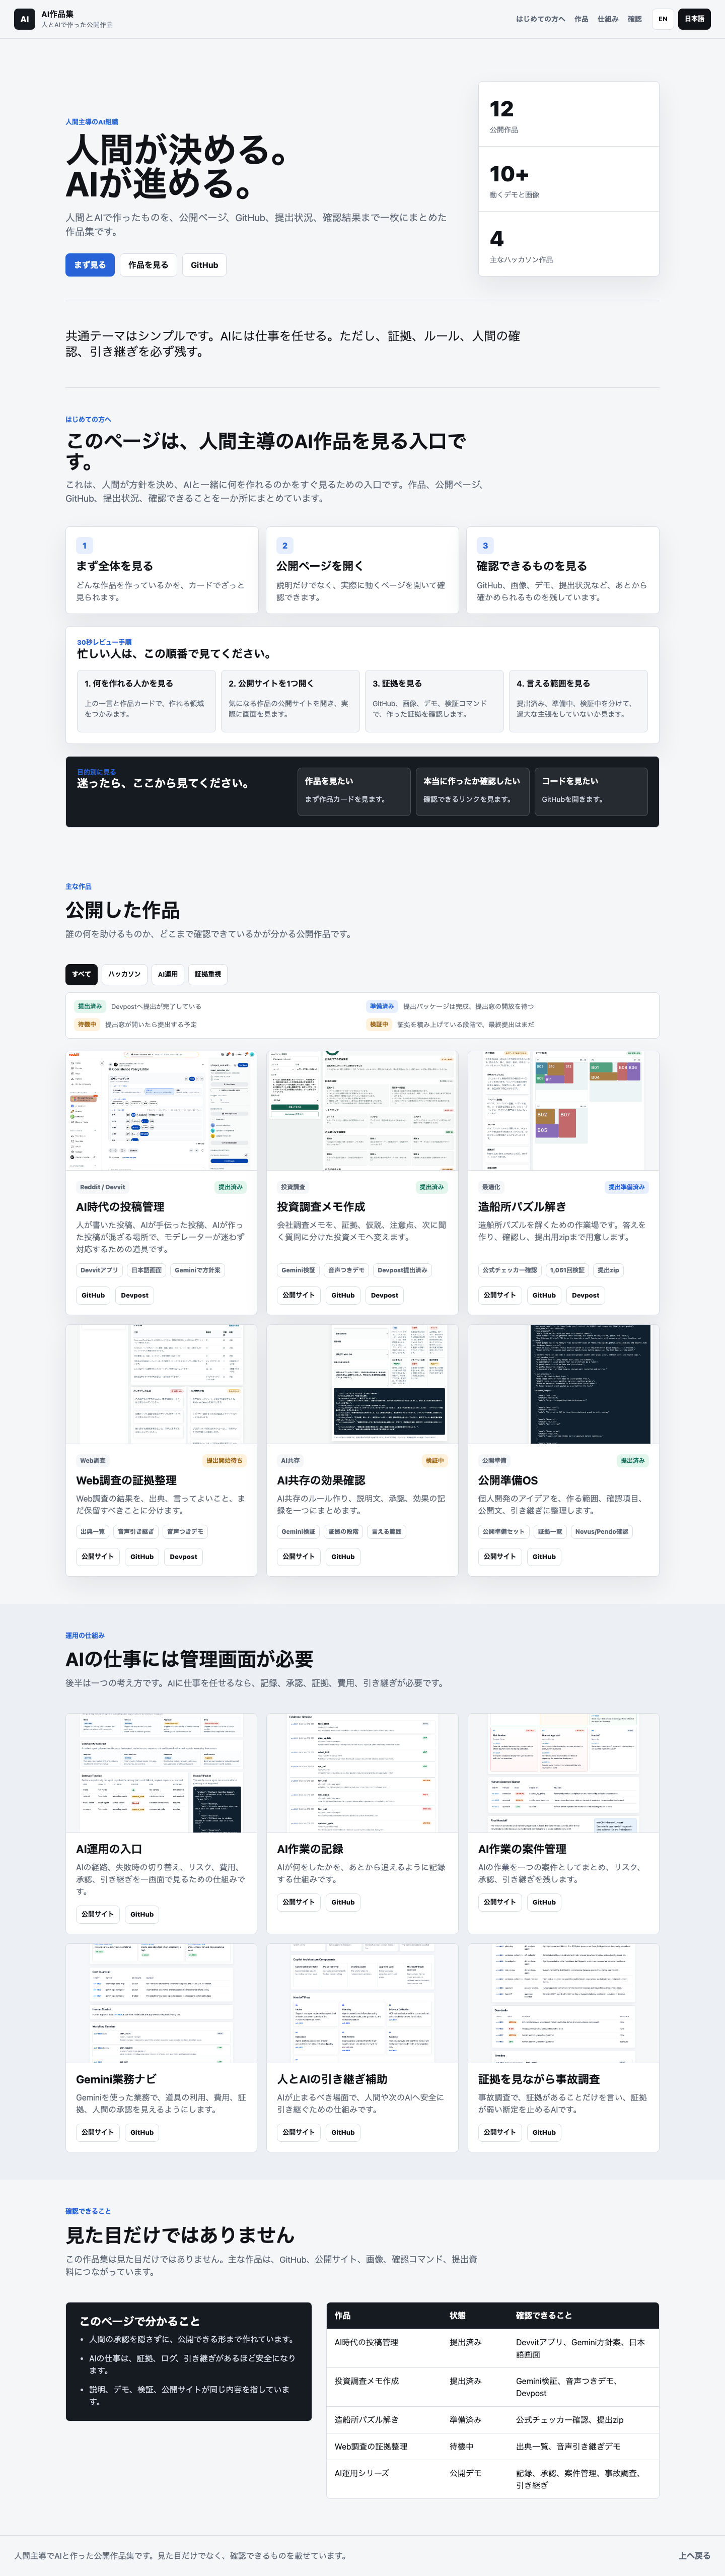
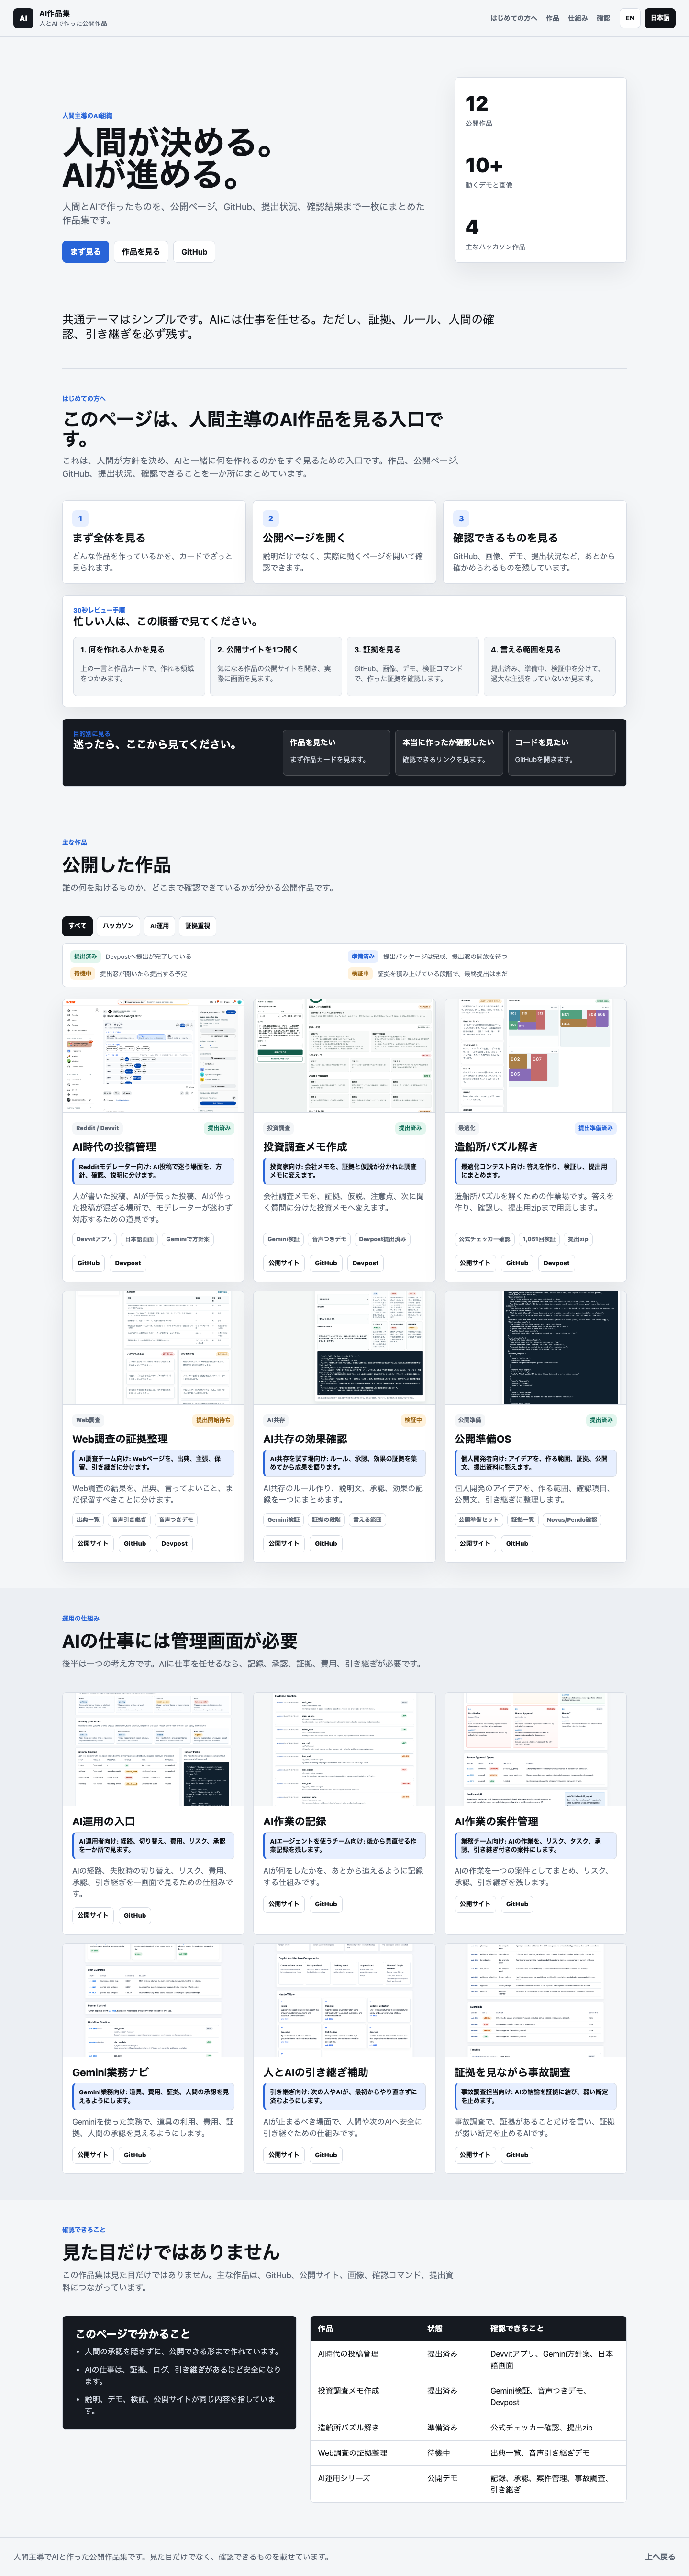
Add audience value lines to portfolio cards

diff --git a/index.html b/index.html
@@ -207,6 +207,10 @@
                 <span class="status submitted" data-i18n="statusSubmitted">提出済み</span>
               </div>
               <h3 data-i18n="coexistenceTitle">AI時代の投稿管理</h3>
+              <p class="value-line">
+                <span class="i18n-en">For Reddit moderators: turn AI-content uncertainty into policy, queue actions, and clear explanations.</span>
+                <span class="i18n-ja">Redditモデレーター向け: AI投稿で迷う場面を、方針、確認、説明に分けます。</span>
+              </p>
               <p>
                 <span class="i18n-en">A moderation governance console for communities where human, AI-assisted, AI-generated, and undisclosed participation coexist.</span>
                 <span class="i18n-ja">人が書いた投稿、AIが手伝った投稿、AIが作った投稿が混ざる場所で、モデレーターが迷わず対応するための道具です。</span>
@@ -231,6 +235,10 @@
                 <span class="status submitted" data-i18n="statusSubmitted">提出済み</span>
               </div>
               <h3 data-i18n="investorTitle">投資調査メモ作成</h3>
+              <p class="value-line">
+                <span class="i18n-en">For investors: turn rough startup notes into a review memo that separates evidence from assumptions.</span>
+                <span class="i18n-ja">投資家向け: 会社メモを、証拠と仮説が分かれた調査メモに変えます。</span>
+              </p>
               <p>
                 <span class="i18n-en">Turns messy startup notes into an evidence-aware diligence brief with red flags, assumptions, and next investor questions.</span>
                 <span class="i18n-ja">会社調査メモを、証拠、仮説、注意点、次に聞く質問に分けた投資メモへ変えます。</span>
@@ -256,6 +264,10 @@
                 <span class="status ready" data-i18n="statusReady">提出準備済み</span>
               </div>
               <h3 data-i18n="shipyardTitle">造船所パズル解き</h3>
+              <p class="value-line">
+                <span class="i18n-en">For optimization competitors: solve, validate, and package answers without losing proof.</span>
+                <span class="i18n-ja">最適化コンテスト向け: 答えを作り、検証し、提出用にまとめます。</span>
+              </p>
               <p>
                 <span class="i18n-en">A reproducible solver workbench for the Grand Shipyard Puzzle with checker smoke tests, benchmark history, and official-format packaging.</span>
                 <span class="i18n-ja">造船所パズルを解くための作業場です。答えを作り、確認し、提出用zipまで用意します。</span>
@@ -281,6 +293,10 @@
                 <span class="status queued" data-i18n="statusQueued">提出開始待ち</span>
               </div>
               <h3 data-i18n="webEvidenceTitle">Web調査の証拠整理</h3>
+              <p class="value-line">
+                <span class="i18n-en">For AI research teams: turn web pages into claims, sources, blocked claims, and handoff notes.</span>
+                <span class="i18n-ja">AI調査チーム向け: Webページを、出典、主張、保留、引き継ぎに分けます。</span>
+              </p>
               <p>
                 <span class="i18n-en">Turns web research into source cards, claim confidence, blocked claims, and a voice handoff gate for human review.</span>
                 <span class="i18n-ja">Web調査の結果を、出典、言ってよいこと、まだ保留すべきことに分けます。</span>
@@ -306,6 +322,10 @@
                 <span class="status proof" data-i18n="statusProof">検証中</span>
               </div>
               <h3 data-i18n="impactTitle">AI共存の効果確認</h3>
+              <p class="value-line">
+                <span class="i18n-en">For communities piloting human-AI coexistence: collect policy, approvals, and impact evidence before claiming results.</span>
+                <span class="i18n-ja">AI共存を試す場向け: ルール、承認、効果の証拠を集めてから成果を語ります。</span>
+              </p>
               <p>
                 <span class="i18n-en">A Gemini-backed impact and governance workspace for policy drafting, multilingual explanation, approval gates, and pilot evidence.</span>
                 <span class="i18n-ja">AI共存のルール作り、説明文、承認、効果の記録を一つにまとめます。</span>
@@ -330,6 +350,10 @@
                 <span class="status submitted" data-i18n="statusSubmitted">提出済み</span>
               </div>
               <h3 data-i18n="shiproomTitle">公開準備OS</h3>
+              <p class="value-line">
+                <span class="i18n-en">For solo builders: convert an idea into launch scope, proof, copy, and a submission packet.</span>
+                <span class="i18n-ja">個人開発者向け: アイデアを、作る範囲、証拠、公開文、提出資料に整えます。</span>
+              </p>
               <p>
                 <span class="i18n-en">A shipping control room for solo builders that converts a rough idea into scope, proof checklist, launch copy, and handoff packet.</span>
                 <span class="i18n-ja">個人開発のアイデアを、作る範囲、確認項目、公開文、引き継ぎに整理します。</span>
@@ -363,6 +387,10 @@
             <img src="media/resilient-agentops-gateway-pages-full.png" alt="Resilient AgentOps Gateway screenshot" loading="eager">
             <div class="project-body">
               <h3 data-i18n="gatewayTitle">AI運用の入口</h3>
+              <p class="value-line">
+                <span class="i18n-en">For AI operators: see model routes, fallbacks, cost, risk, and approval gates in one place.</span>
+                <span class="i18n-ja">AI運用者向け: 経路、切り替え、費用、リスク、承認を一か所で見ます。</span>
+              </p>
               <p data-i18n="gatewayDesc">AIの経路、失敗時の切り替え、リスク、費用、承認、引き継ぎを一画面で見るための仕組みです。</p>
               <div class="link-row">
                 <a href="https://daideguchi.github.io/resilient-agentops-gateway/" rel="noreferrer" data-i18n="linkLive">公開サイト</a>
@@ -375,6 +403,10 @@
             <img src="media/agentops-flight-recorder-full.png" alt="AgentOps Flight Recorder dashboard screenshot" loading="eager">
             <div class="project-body">
               <h3 data-i18n="recorderTitle">AI作業の記録</h3>
+              <p class="value-line">
+                <span class="i18n-en">For teams using agents: record what happened so later review is possible.</span>
+                <span class="i18n-ja">AIエージェントを使うチーム向け: 後から見直せる作業記録を残します。</span>
+              </p>
               <p data-i18n="recorderDesc">AIが何をしたかを、あとから追えるように記録する仕組みです。</p>
               <div class="link-row">
                 <a href="https://daideguchi.github.io/agentops-flight-recorder/" rel="noreferrer" data-i18n="linkLive">公開サイト</a>
@@ -387,6 +419,10 @@
             <img src="media/agentops-case-control-room-full.png" alt="AgentOps Case Control Room screenshot" loading="eager">
             <div class="project-body">
               <h3 data-i18n="caseTitle">AI作業の案件管理</h3>
+              <p class="value-line">
+                <span class="i18n-en">For operations teams: turn agent work into cases with risks, tasks, approvals, and handoff.</span>
+                <span class="i18n-ja">業務チーム向け: AIの作業を、リスク、タスク、承認、引き継ぎ付きの案件にします。</span>
+              </p>
               <p data-i18n="caseDesc">AIの作業を一つの案件としてまとめ、リスク、承認、引き継ぎを残します。</p>
               <div class="link-row">
                 <a href="https://daideguchi.github.io/agentops-case-control-room/" rel="noreferrer" data-i18n="linkLive">公開サイト</a>
@@ -399,6 +435,10 @@
             <img src="media/gemini-operations-navigator-full.png" alt="Gemini Operations Navigator screenshot" loading="eager">
             <div class="project-body">
               <h3 data-i18n="geminiOpsTitle">Gemini業務ナビ</h3>
+              <p class="value-line">
+                <span class="i18n-en">For Gemini workflows: make tools, cost, evidence, and human approval visible.</span>
+                <span class="i18n-ja">Gemini業務向け: 道具、費用、証拠、人間の承認を見えるようにします。</span>
+              </p>
               <p data-i18n="geminiOpsDesc">Geminiを使った業務で、道具の利用、費用、証拠、人間の承認を見えるようにします。</p>
               <div class="link-row">
                 <a href="https://daideguchi.github.io/gemini-operations-navigator/" rel="noreferrer" data-i18n="linkLive">公開サイト</a>
@@ -411,6 +451,10 @@
             <img src="media/human-ai-handoff-copilot-full.png" alt="Human-AI Handoff Copilot architecture screenshot" loading="eager">
             <div class="project-body">
               <h3 data-i18n="handoffTitle">人とAIの引き継ぎ補助</h3>
+              <p class="value-line">
+                <span class="i18n-en">For support handoffs: keep the next human or AI from restarting from zero.</span>
+                <span class="i18n-ja">引き継ぎ向け: 次の人やAIが、最初からやり直さずに済むようにします。</span>
+              </p>
               <p data-i18n="handoffDesc">AIが止まるべき場面で、人間や次のAIへ安全に引き継ぐための仕組みです。</p>
               <div class="link-row">
                 <a href="https://daideguchi.github.io/human-ai-handoff-copilot/" rel="noreferrer" data-i18n="linkLive">公開サイト</a>
@@ -423,6 +467,10 @@
             <img src="media/evidence-locked-dfir-agent-full.png" alt="Evidence-Locked DFIR Agent report screenshot" loading="eager">
             <div class="project-body">
               <h3 data-i18n="dfirTitle">証拠を見ながら事故調査</h3>
+              <p class="value-line">
+                <span class="i18n-en">For incident responders: keep AI conclusions tied to evidence and block weak certainty.</span>
+                <span class="i18n-ja">事故調査担当向け: AIの結論を証拠に結び、弱い断定を止めます。</span>
+              </p>
               <p data-i18n="dfirDesc">事故調査で、証拠があることだけを言い、証拠が弱い断定を止めるAIです。</p>
               <div class="link-row">
                 <a href="https://daideguchi.github.io/evidence-locked-dfir-agent/" rel="noreferrer" data-i18n="linkLive">公開サイト</a>

diff --git a/styles.css b/styles.css
@@ -473,6 +473,19 @@ h3 {
   color: var(--muted);
 }
 
+.project-body .value-line {
+  margin: -2px 0 12px;
+  padding: 9px 10px;
+  border: 1px solid var(--line);
+  border-left: 4px solid var(--accent);
+  border-radius: 8px;
+  background: var(--accent-soft);
+  color: var(--ink);
+  font-size: 13px;
+  font-weight: 750;
+  line-height: 1.42;
+}
+
 .featured-card {
   grid-column: span 1;
 }

diff --git a/README.md b/README.md
@@ -32,6 +32,7 @@ https://github.com/daideguchi/ai-revenue-portfolio
 
 - どんな作品を作っているか
 - 誰の役に立つものか
+- その人のどんな困りごとを、どう助けるか
 - 実際に動く公開ページはどこか
 - GitHubや画像など、あとから確認できるものは何か
 - どの作品が提出済みで、どの作品が準備中か
@@ -53,7 +54,7 @@ https://github.com/daideguchi/ai-revenue-portfolio
 
 忙しい人は、次の順番で見てください。
 
-1. 上の一言と作品カードで、人間主導のAI制作フローが何を作れるかを見る
+1. 上の一言と作品カードで、誰の何をどう助けるかを見る
 2. 気になる作品の `公開サイト` を1つ開く
 3. GitHub、画像、デモ、検証コマンドで、作った証拠を見る
 4. `提出済み`、`準備済み`、`待機中`、`検証中` の違いを確認し、過大な主張をしていないか見る